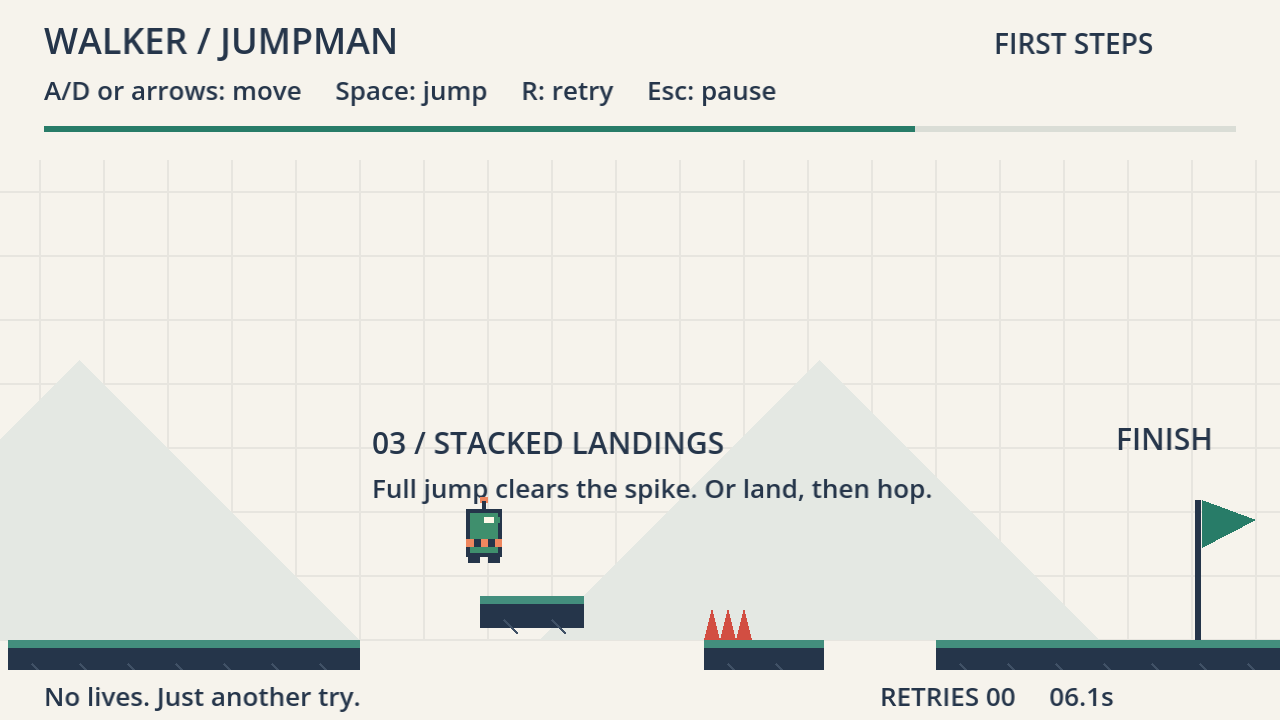
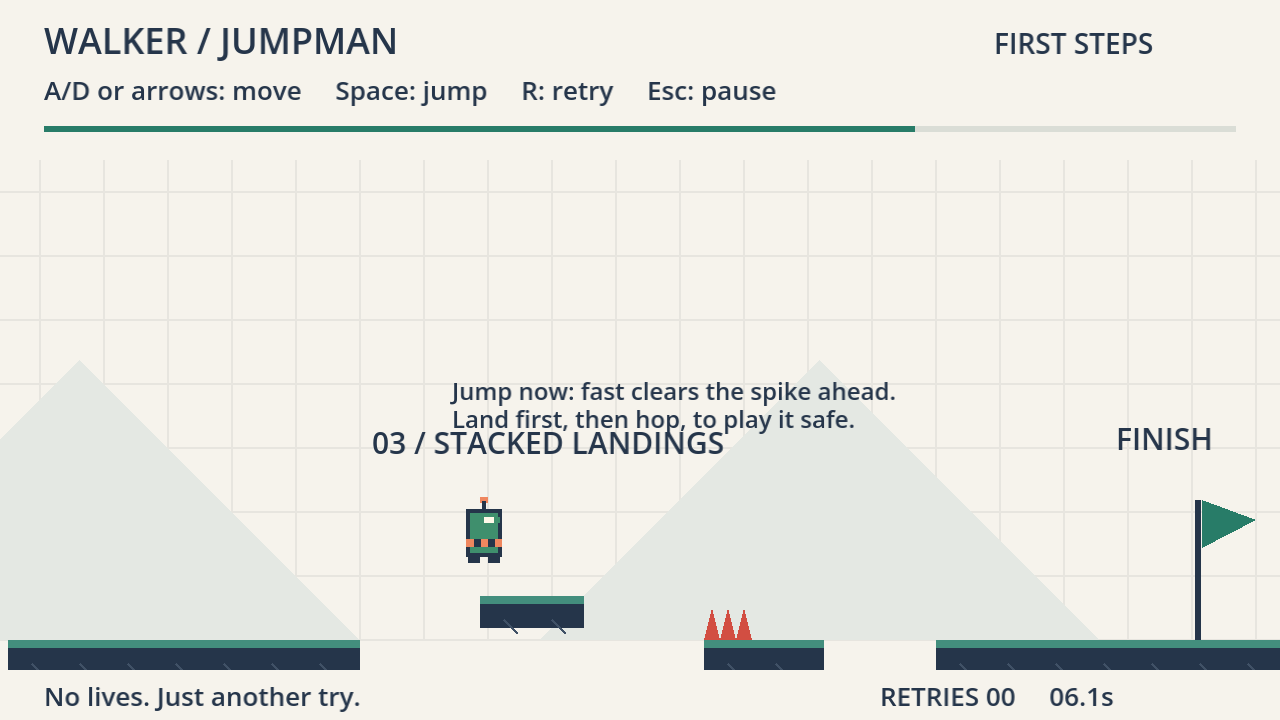
Fix Zone 3 decision legibility found in human playtest
Yuan played the real build (play.bat) and reached the relocated finish
without realizing the fast-jump-vs-land-then-hop choice on the new ledges
was a choice at all — confirming a risk this project's own FRICTIONAL.md
had flagged as untested before playtesting.

Root cause: the only sign explaining the decision was posted at the Zone 3
entrance (the takeoff for the first gap), not at the first new ledge where
the decision actually happens, so it scrolled off screen before the
player needed it.

Moves the decision hint to draw directly above the first new ledge, above
the jump arc's peak so the character sprite never covers it; the "03 /
STACKED LANDINGS" zone title stays at the entrance. Draw-only change:
mechanics suite still 25/25 (complete-real-route unaffected). See
TEST-REPORT.md #7 and FRICTIONAL.md for the full before/after; whether
this actually reads clearly to a first-time player is still open pending
a second human pass.

Changed region(s): [[0.3438, 0.5194, 0.6875, 0.6111], [0.2812, 0.6722, 0.7188, 0.7028]]

diff --git a/TEST-REPORT.md b/TEST-REPORT.md
@@ -162,23 +162,43 @@ route that doesn't finish, it isn't a rubber-stamp). No existing assertion
 was deleted or weakened; the original 5 jump marks and all pre-existing
 checks are unchanged and still pass.
 
-## 7. Human playtest — pending
+## 7. Human playtest
 
-**Not yet completed.** Everything above is machine-driven (scripted input
-through Godot's real `Input`/physics, not a substitute for a person
-judging feel). Per the assignment, an automated input route does not
-replace an actual playtest.
+**Playtester:** Yuan Jingya (the author), single session, 2026-09-17, played
+the real build via `play.bat` — normal keyboard input, not scripted.
 
-Run `play.bat` (Windows) or `godot --path godot`, then:
+| Check | Result |
+|---|---|
+| Startup, movement, jump, pause/resume, retry | Works, "feels fine, no issues." Character reads clearly while moving/jumping. |
+| Reached the relocated finish through the new section | Yes. |
+| Zone 3 decision (fast-jump-clears-spike vs. land-then-hop) legible **before** committing | **No** — reached the finish but "at the time didn't realize this was a choice" (player's own words, translated). |
+| Deliberate failure + retry in Zone 3 | Not yet tested by the human playtester (only the success path was played this session); covered by automated evidence in §4 in the meantime. |
 
-- [ ] Play the normal control/retry loop start to finish.
-- [ ] Confirm the Zone 3 decision is legible in the moment (can you tell,
-      before committing, that a fast jump clears the spike and a cautious
-      one doesn't?).
-- [ ] Deliberately fail at least once in Zone 3 and confirm retry feels the
-      same as the original zones.
-- [ ] Confirm the character reads clearly against the world while jumping,
-      not just standing still.
+**This is the required inspect-and-revise finding**, not a passing box to
+check: the risk flagged in `FRICTIONAL.md` before playtesting
+("untested whether the choice is *felt* in the moment, or only visible in
+hindsight") turned out to be real. Root cause found by re-reading
+`session.gd`'s `_draw()`: the only sign explaining the decision was posted
+at x=1006, y=227/249 **before the fix below**, but positioned as part of
+the zone-entrance title block at the *takeoff* for the first gap (around
+x=966) — by the time the player is actually standing on the first new
+ledge deciding how to take the second jump, that text has already
+scrolled off screen behind them.
 
-Results will be appended here (or in a dated addendum) after that session,
-per FRICTIONAL.md.
+**Revision:** moved the decision-specific text
+("Jump now: fast clears the spike ahead." / "Land first, then hop, to play
+it safe.") to draw directly above the first new ledge itself (world
+position ~x1006, y200/214 — above the jump arc's peak height so it's never
+obscured by the character), separate from the "03 / STACKED LANDINGS"
+zone-entrance title, which stays where it was. Re-verified: mechanics
+suite still 25/25 (`complete-real-route` unaffected — this is a draw-only
+change), and `evidence/screens/05-zone3-landing.png` was re-captured
+showing both lines clearly positioned above the character while it stands
+on the ledge, before the second jump.
+
+**Still open:** whether this repositioning actually makes the choice feel
+legible *in the moment* to a first-time player is itself an untested
+claim until re-played by a human — logged honestly in `FRICTIONAL.md`
+rather than assumed fixed. A second human pass (ideally a different
+playtester) and an explicit on-purpose failure/retry test in Zone 3 remain
+open for the next session.

diff --git a/FRICTIONAL.md b/FRICTIONAL.md
@@ -59,20 +59,38 @@ the one required inspect-and-revise cycle, and it addressed a real
 clarity defect (an accent detail that had zero visible effect), not a
 crash.
 
-## What's still open (unresolved)
+## Human playtest confirmed a real design gap (human found it, AI fixed it)
 
-- **No human playtest yet as of this entry.** Every result in
-  `TEST-REPORT.md` §1-6 is scripted-input or headless — genuinely run
-  through the real engine and real physics, but not a person judging feel,
-  timing comfort, or whether the Zone 3 decision reads clearly in the
-  moment rather than only in hindsight. This is called out rather than
-  filled in with an invented session; see `TEST-REPORT.md` §7 for the
-  checklist and instructions to run it.
-- **No second playtester was available** for this submission window.
-- Whether the "run fast to clear both obstacles vs. land-then-hop" choice
-  in Zone 3 is actually *felt* as a decision by a first-time player, versus
-  only visible once you already know the geometry, is untested by anything
-  in this log — that is exactly what the pending human playtest is for.
+Yuan played the actual build (`play.bat`, normal keyboard input) and
+reported: reached the relocated finish, but "at the time didn't realize
+this was a choice" regarding the Zone 3 fast-jump-vs-land-then-hop
+decision. This is exactly the risk flagged as untested earlier in this
+log — it turned out to be real, not hypothetical.
+
+Root cause (Claude, by re-reading `session.gd`'s `_draw()`): the only
+sign explaining the decision was drawn at the zone-entrance title
+position (around the takeoff for the *first* gap), not at the actual
+decision point (the first new ledge, where the player is about to choose
+how to take the *second* jump). By the time a player is standing on that
+ledge, the sign has scrolled off screen behind them.
+
+Fix (Claude): moved the decision-specific two-line hint to draw directly
+above the first new ledge, above the jump arc's peak height so the
+character sprite never covers it, leaving the zone title where it was.
+Re-verified the mechanics suite (still 25/25 — draw-only change) and
+re-captured `evidence/screens/05-zone3-landing.png`. See `TEST-REPORT.md`
+§7 for the full before/after.
+
+**Still open (unresolved):**
+
+- Whether the repositioned sign actually makes the choice legible *in the
+  moment* to a first-time player is itself untested until re-played by a
+  human — not assumed fixed just because the reasoning sounds right.
+- The human playtester has only played the success path once; deliberate
+  failure/retry in Zone 3 has not yet been human-tested (automated
+  evidence covers the mechanism in `TEST-REPORT.md` §4, but not the human
+  "does retry still feel fine here" judgment).
+- No second playtester was available for this submission window.
 
 ## Traceability
 
